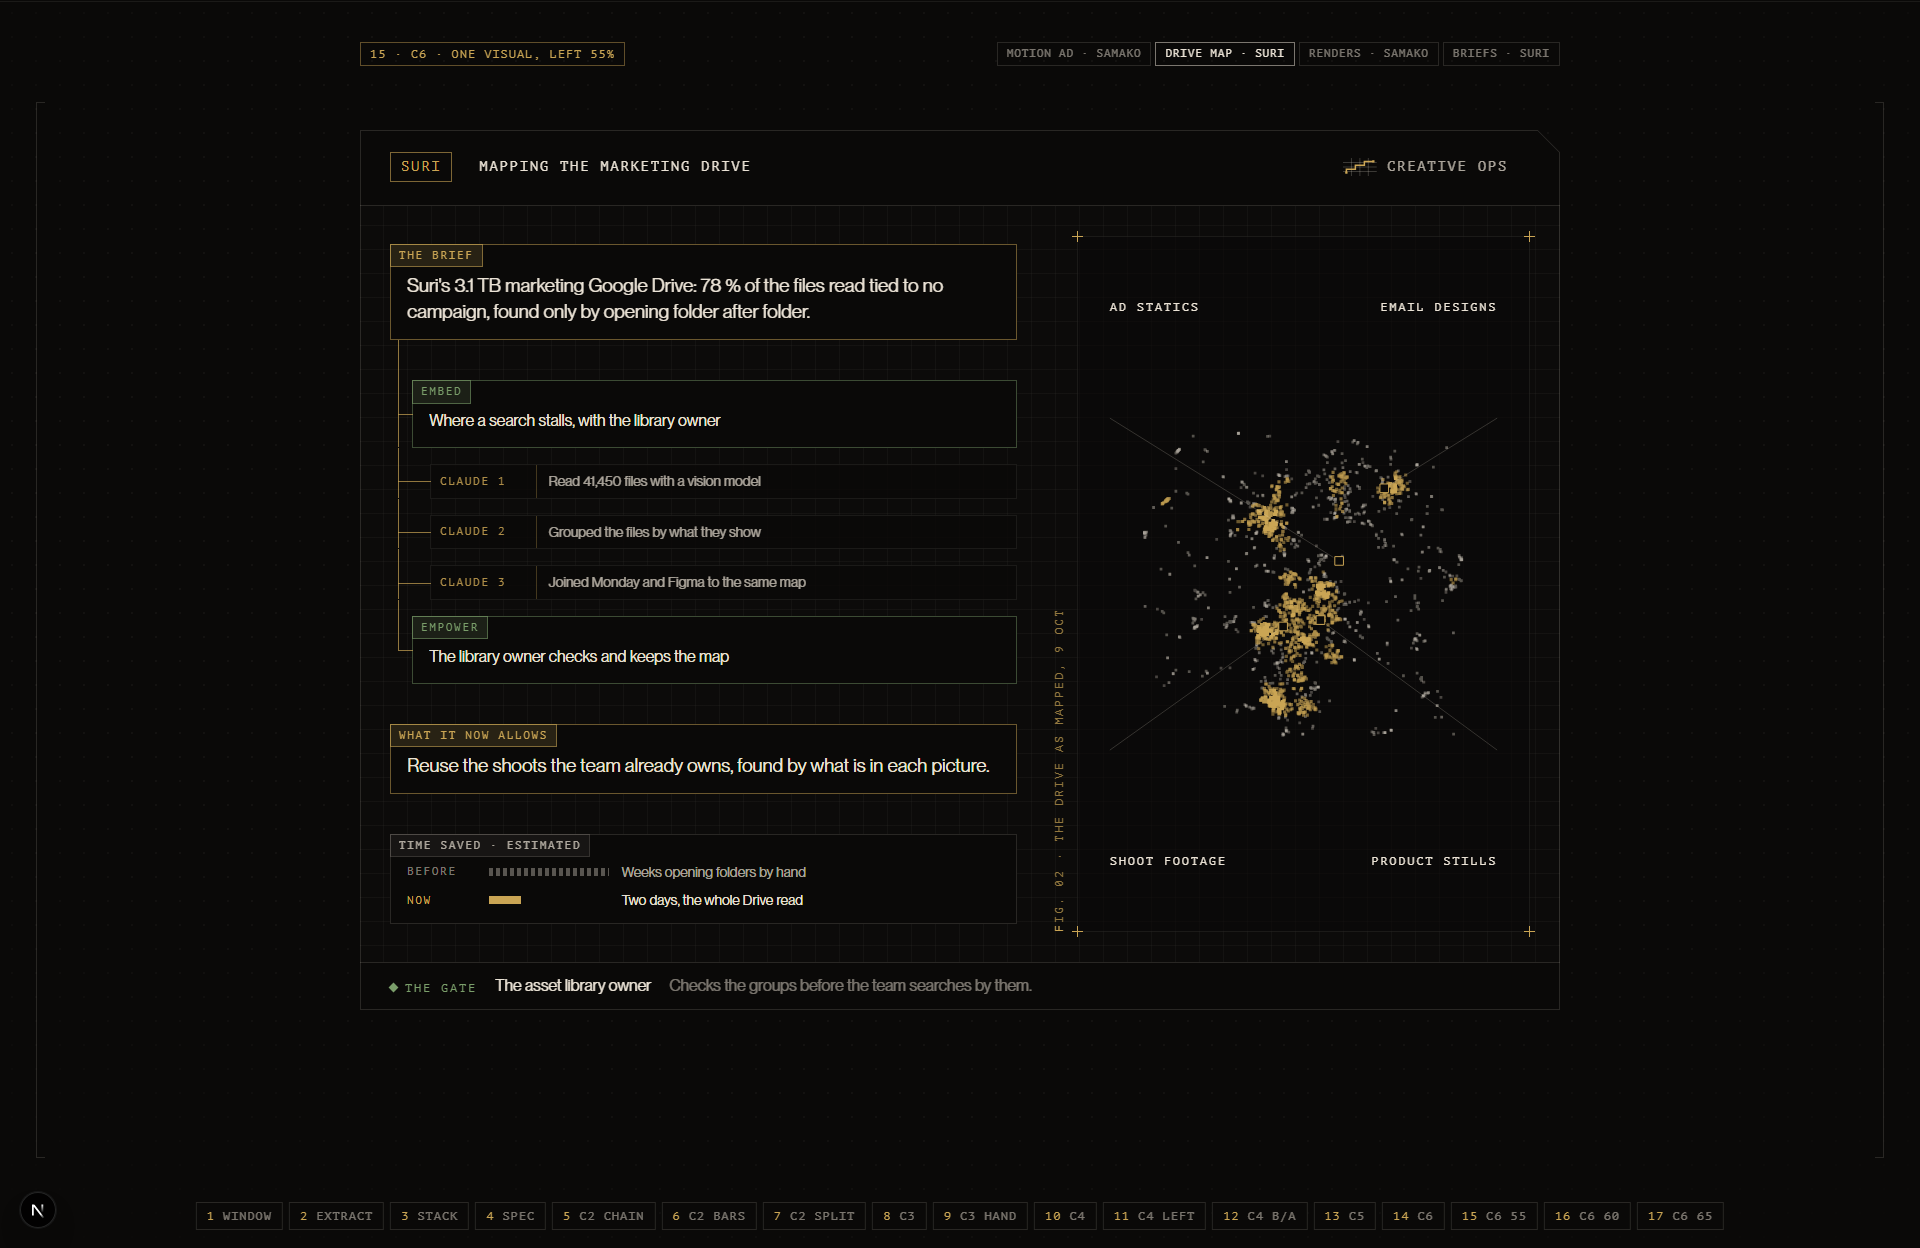
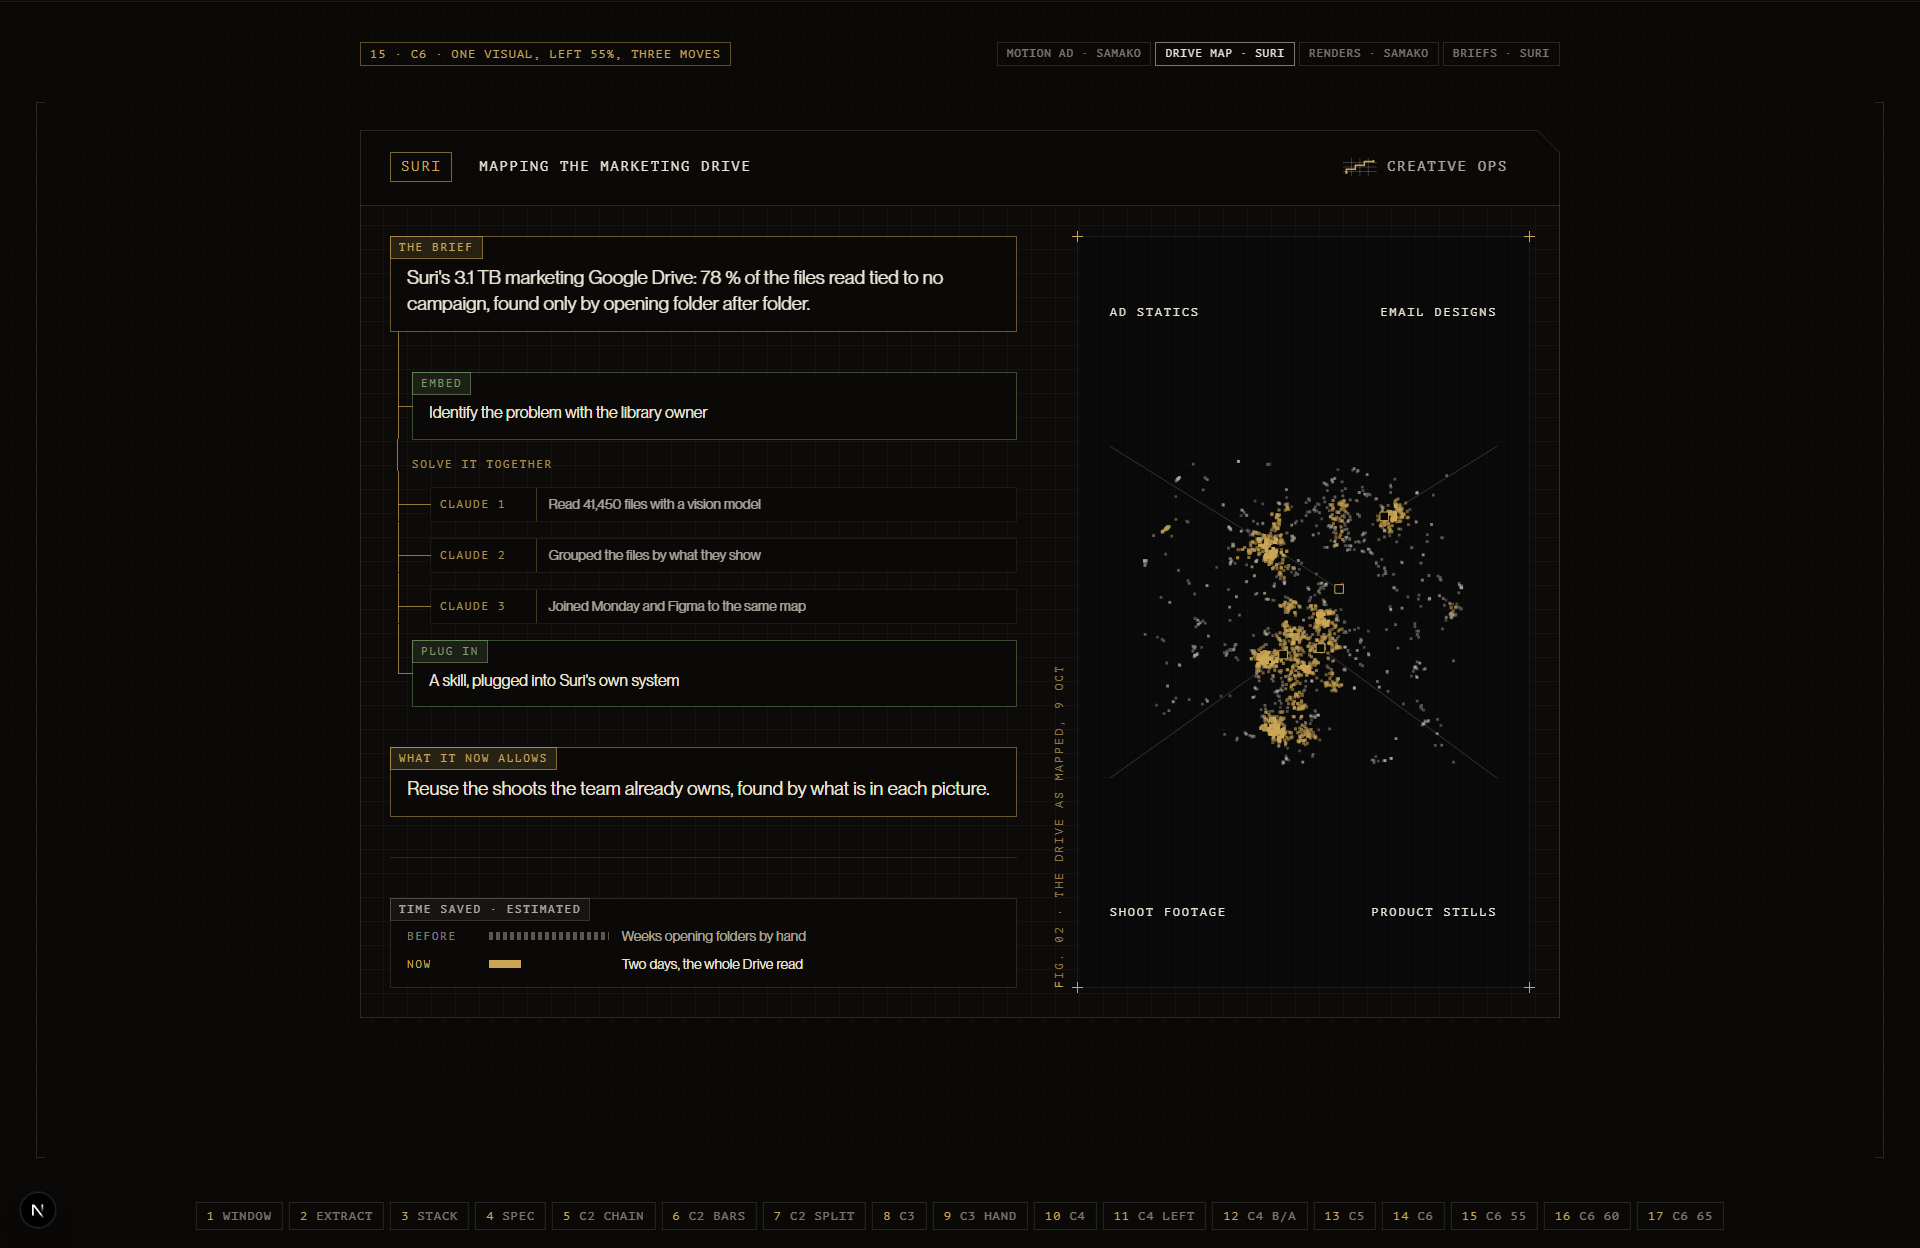
feat(test): proof card 15, no gate, a divider over the time saved, embed, solve it together, plug in

diff --git a/app/(internal)/test/proof-cards/RoundSix.tsx b/app/(internal)/test/proof-cards/RoundSix.tsx
@@ -23,12 +23,17 @@ export function DirectionI({
   job,
   ba = true,
   left,
+  phases = false,
 }: {
   job: Job;
   /** Two panes (before and after) or the one visual. */
   ba?: boolean;
   /** The left column's share of the body, e.g. "55%"; 14 keeps its 42/58. */
   left?: string;
+  /** U3 (owner, 2026-10-12, on 15): no gate, a divider over the time saved,
+   *  and the steps in the vision's own words: embed to identify the
+   *  problem, solve it together, plug it into their system. */
+  phases?: boolean;
 }) {
   const p = PRACTICE[job.id];
   const d = disciplineOf(job.bucket);
@@ -55,8 +60,9 @@ export function DirectionI({
           <ol className="pk-i__flow" aria-label="The work">
             <li className="pk-c__box pk-i__big">
               <p className="pk-c__tab">Embed</p>
-              <p className="pk-body">{p.embed}</p>
+              <p className="pk-body">{phases ? p.identify : p.embed}</p>
             </li>
+            {phases ? <li className="pk-i__label">Solve it together</li> : null}
             {job.did.map((t, i) => (
               <li key={t} className="pk-i__small">
                 <span className="pk-i__small-tab">Claude {i + 1}</span>
@@ -64,14 +70,15 @@ export function DirectionI({
               </li>
             ))}
             <li className="pk-c__box pk-i__big">
-              <p className="pk-c__tab">Empower</p>
-              <p className="pk-body">{p.empower}</p>
+              <p className="pk-c__tab">{phases ? "Plug in" : "Empower"}</p>
+              <p className="pk-body">{phases ? p.plug : p.empower}</p>
             </li>
           </ol>
           <div className="pk-c__box pk-c__box--lit pk-i__allows">
             <p className="pk-c__tab">What it now allows</p>
             <p className="pk-lede">{job.result.allows}</p>
           </div>
+          {phases ? <hr className="pk-i__rule" /> : null}
           <div className="pk-c__box pk-i__saved">
             <p className="pk-c__tab">
               {resultLabel(job)}
@@ -93,11 +100,13 @@ export function DirectionI({
         </div>
         <Figure job={job} wide ba={ba} />
       </div>
-      <p className="pk-gate">
-        <span className="pk-gate__key">The gate</span>
-        <span className="pk-gate__who">{job.gate.who}</span>
-        {job.gate.line ? <span className="pk-gate__line">{job.gate.line}</span> : null}
-      </p>
+      {phases ? null : (
+        <p className="pk-gate">
+          <span className="pk-gate__key">The gate</span>
+          <span className="pk-gate__who">{job.gate.who}</span>
+          {job.gate.line ? <span className="pk-gate__line">{job.gate.line}</span> : null}
+        </p>
+      )}
     </article>
   );
 }

diff --git a/app/(internal)/test/proof-cards/practice.ts b/app/(internal)/test/proof-cards/practice.ts
@@ -26,6 +26,9 @@ export interface Practice {
   problem: string;
   embed: string;
   empower: string;
+  /* U3: the vision's three moves, his words, no first person on the page */
+  identify: string;
+  plug: string;
 }
 
 export const PRACTICE: Record<string, Practice> = {
@@ -41,6 +44,8 @@ export const PRACTICE: Record<string, Practice> = {
       "Samako needed a 15-second autumn sale ad for paid social. Each one meant a motion designer, and the product had to stay as photographed.",
     embed: "What the ad must show, with the visual lead",
     empower: "The visual lead chooses the film that runs",
+    identify: "Identify the problem with the visual lead",
+    plug: "A skill, plugged into Samako's own system",
   },
   "job-ops": {
     brief: "Map the 3.1 TB marketing Google Drive by what is in each file.",
@@ -54,6 +59,8 @@ export const PRACTICE: Record<string, Practice> = {
       "Suri's 3.1 TB marketing Google Drive: 78 % of the files read tied to no campaign, found only by opening folder after folder.",
     embed: "Where a search stalls, with the library owner",
     empower: "The library owner checks and keeps the map",
+    identify: "Identify the problem with the library owner",
+    plug: "A skill, plugged into Suri's own system",
   },
   "job-review": {
     brief: "Catch the AI product renders that get the product wrong, before review.",
@@ -67,6 +74,8 @@ export const PRACTICE: Record<string, Practice> = {
       "AI renders get the product subtly wrong. Every render went to three people to be checked by eye.",
     embed: "The errors the creative team catches by eye",
     empower: "The visual lead checks the grading",
+    identify: "Identify the problem with the creative team",
+    plug: "A skill, plugged into Samako's own system",
   },
   "job-strategy": {
     brief: "One brief format for every channel, complete before it reaches the studio.",
@@ -80,5 +89,7 @@ export const PRACTICE: Record<string, Practice> = {
       "Every writer and channel sent the studio a different brief, and the studio lead spent hours finding what each left out.",
     embed: "What a brief leaves out, with the strategists",
     empower: "The strategist marks each brief ready",
+    identify: "Identify the problem with the strategists",
+    plug: "A skill, plugged into Suri's own system",
   },
 };

diff --git a/app/(internal)/test/proof-cards/ProofCardsShell.tsx b/app/(internal)/test/proof-cards/ProofCardsShell.tsx
@@ -36,7 +36,7 @@ export const BLOCKS = [
   /* round six: 12's layout harmonised with 3C */
   { id: "i-left", n: "14", short: "C6", label: "C6 · 12 on 3C", C: DirectionI },
   /* round six U2: one visual, the left column at 55, 60 and 65 % */
-  { id: "i55", n: "15", short: "C6 55", label: "C6 · One visual, left 55%", C: ({ job }: { job: Job }) => <DirectionI job={job} ba={false} left="55%" /> },
+  { id: "i55", n: "15", short: "C6 55", label: "C6 · One visual, left 55%, three moves", C: ({ job }: { job: Job }) => <DirectionI job={job} ba={false} left="55%" phases /> },
   { id: "i60", n: "16", short: "C6 60", label: "C6 · One visual, left 60%", C: ({ job }: { job: Job }) => <DirectionI job={job} ba={false} left="60%" /> },
   { id: "i65", n: "17", short: "C6 65", label: "C6 · One visual, left 65%", C: ({ job }: { job: Job }) => <DirectionI job={job} ba={false} left="65%" /> },
 ] as const;

diff --git a/app/(internal)/test/proof-cards/proof-cards-c6.css b/app/(internal)/test/proof-cards/proof-cards-c6.css
@@ -209,3 +209,23 @@
   --pk-g: clamp(16px, 2.1vw, 40px);
   --pk-g2: clamp(12px, 0.85vw, 16px);
 }
+
+/* U3: the phase label on the rail before Claude's steps, and the plain
+   divider over the time saved */
+.pk-i__label {
+  --pk-rx: -15px;
+  padding: 2px 0 0 0;
+  font: calc(var(--pk-t-mono) * 0.92) / 1.2 var(--pk-mono);
+  letter-spacing: 0.15em;
+  text-transform: uppercase;
+  color: rgba(var(--pk-gold-rgb), 0.85);
+}
+.pk-i__label::after {
+  display: none;
+}
+.pk-i__rule {
+  height: 0;
+  margin: 0;
+  border: 0;
+  border-top: 1px solid var(--pk-line);
+}
